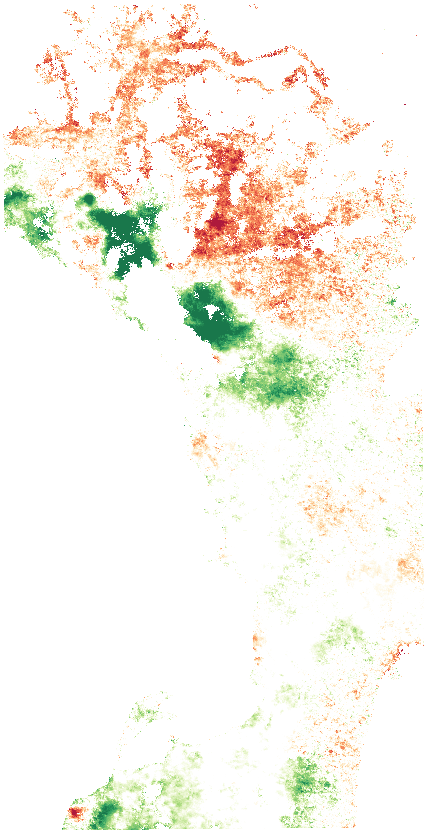
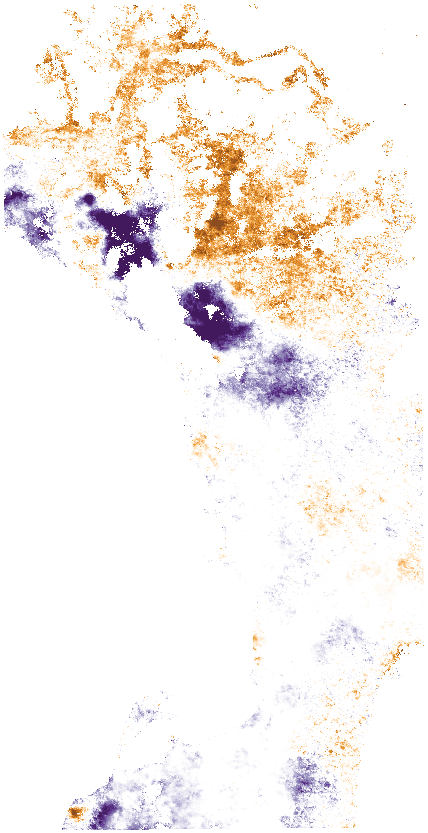
Colorblind-safe acceleration layer: PuOr instead of red/green
The accel layer used red=speeding up / green=slowing, which collapses to one
khaki under deuteranopia. Switch to PuOr (orange/purple), a ColorBrewer
colorblind-safe diverging ramp, and regenerate the two PNGs from source.

diff --git a/scripts/make_finding_layers.py b/scripts/make_finding_layers.py
@@ -45,11 +45,16 @@ def _warp_bounds(tif):
 
 
 def accel_png(city=CITY):
-    """Acceleration: red = subsidence speeding up, green = slowing, center clear."""
+    """Acceleration: orange = subsidence speeding up, purple = slowing, center clear.
+
+    PuOr is a ColorBrewer colorblind-safe diverging ramp (orange at the low/
+    speeding-up end, purple at the high/slowing end). It replaces the earlier
+    red/green RdYlGn, which collapsed to one khaki under deuteranopia.
+    """
     arr, bounds = _warp_bounds(ROOT / "data" / "insar" / city / "accel.tif")
     vmin, vmax = -20.0, 20.0
     norm = mcolors.TwoSlopeNorm(vmin=vmin, vcenter=0.0, vmax=vmax)
-    rgba = matplotlib.colormaps["RdYlGn"](norm(np.clip(arr, vmin, vmax)))
+    rgba = matplotlib.colormaps["PuOr"](norm(np.clip(arr, vmin, vmax)))
     alpha = np.clip((np.abs(arr) - 3.0) / 6.0, 0.0, 1.0) * 0.9
     rgba[..., 3] = np.where(np.isfinite(arr), alpha, 0.0)
     out = ROOT / "web" / "data" / "accel" / f"{city}.png"